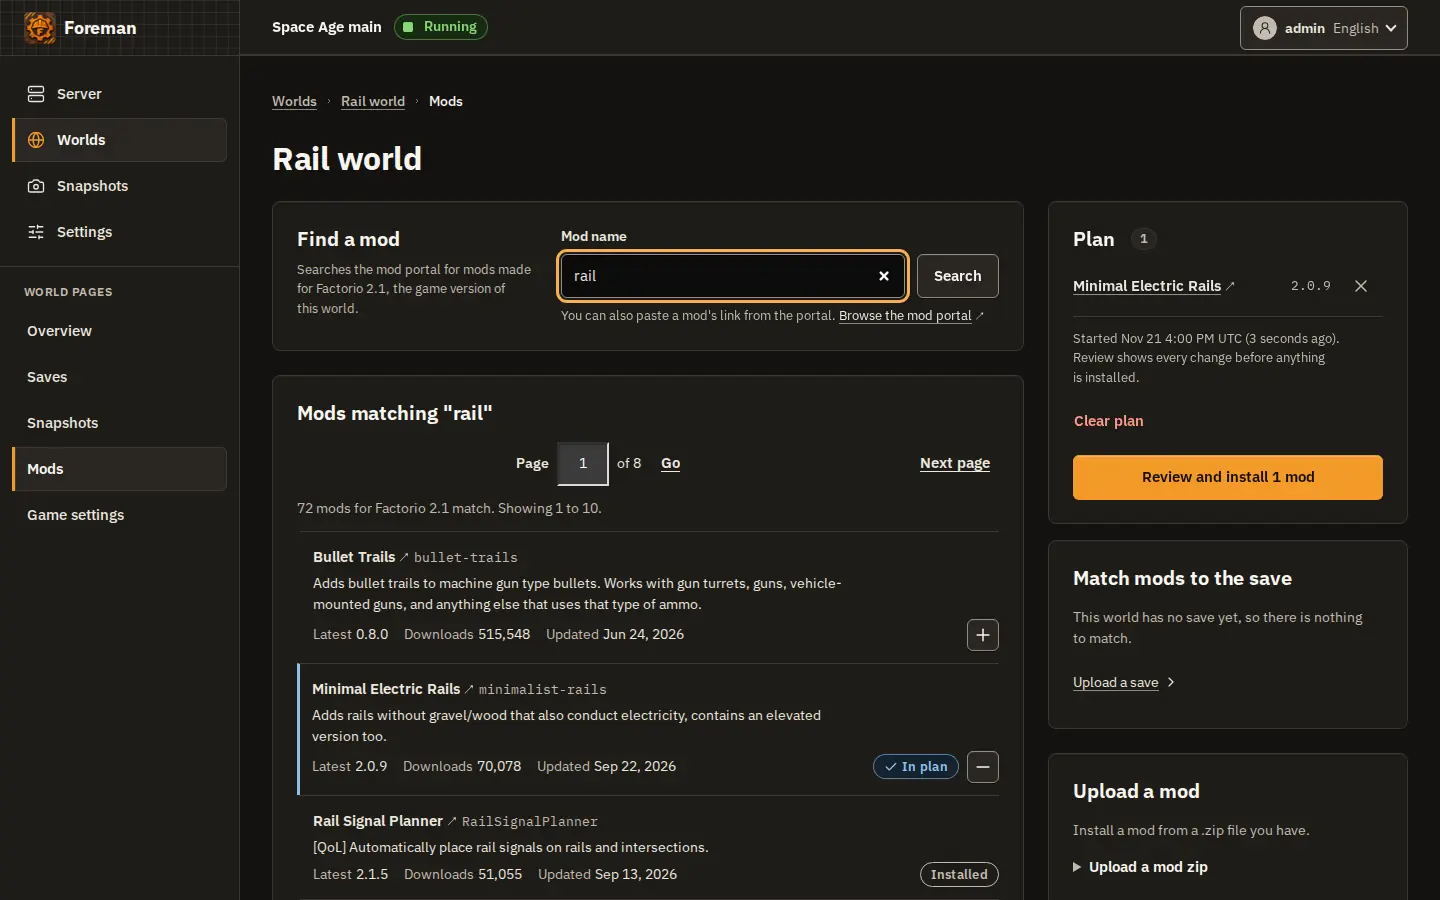
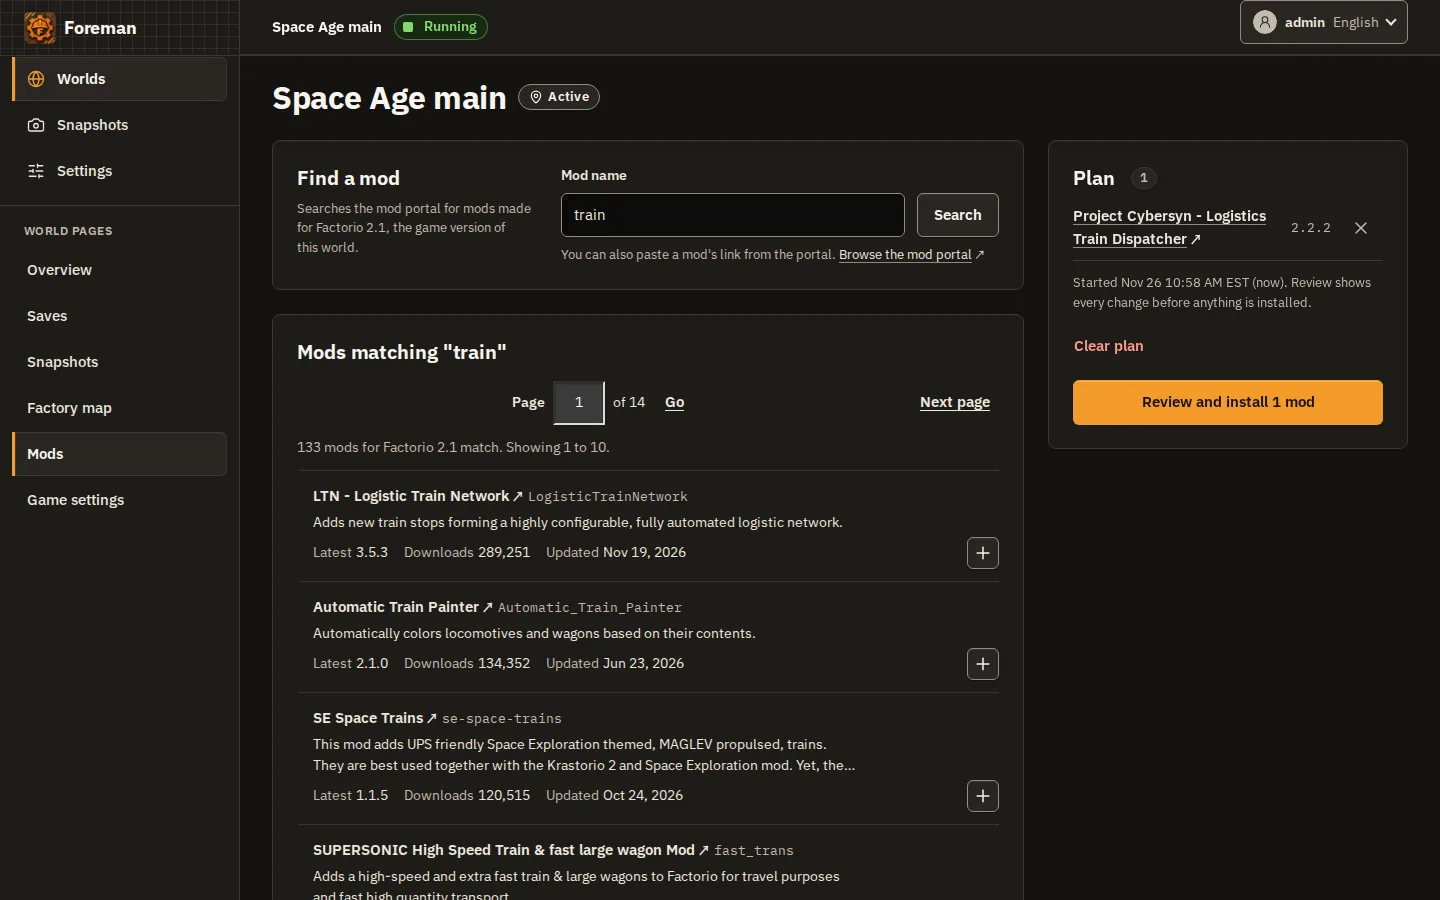
Docs refresh for 1.0.0: README, operator guide, glossary and 27 real screenshots (#967)
* Docs: bring the README, operator guide and I18N guide up to date for 1.0

* Glossary: add rows for world file, factory map, star map, play time, unfinished, tile, spot and REST API

* Docs refresh for 1.0.0: 27 screenshots retaken from a real instance at 1b04b378, wired into README

Retakes all 17 README screenshots and adds 10: Gleba, Fulgora, Aquilo and
three modded planets (Maraxsis, Moshine, Vesta with fluid-tile spots), the
star map, the large view, mod settings and the console. Worlds generated by
the real game, mods installed from the mod portal. Alt text rewritten to
match what each picture shows.

* README: add a short caption under each screenshot

diff --git a/README.md b/README.md
@@ -18,7 +18,9 @@ game or restoring an old save, takes a **snapshot** of the world first. A
 snapshot is a complete copy of the world's folder, so a bad mod update or
 a wrong click is undone in one click, and a save is never lost.
 
-<img src="docs/screenshots/server.webp" width="900" alt="The Server page in dark mode with the world Space Age main running on Factorio 2.1.24: uptime, CPU and memory, the snapshot, restart and stop buttons, players online and recent snapshots.">
+<img src="docs/screenshots/server.webp" width="900" alt="The Server page in dark mode with Space Age main running on Factorio 2.1.24: the join address, uptime, snapshot, restart and stop buttons, CPU, memory and play time.">
+
+*The Server page: the running world, the address players join, and one-click snapshot, restart and stop.*
 
 ## Features
 
@@ -37,28 +39,81 @@ a wrong click is undone in one click, and a save is never lost.
   folder or a save upload, clone a world to try something on a copy, and
   archive the worlds you no longer play. A deleted world can be restored
   from the Deleted worlds page.
+- **Move a world to another Foreman.** Export a world as one world file,
+  with its saves, mods and settings, and import it on another Foreman.
+  The game password, the RCON password and your factorio.com login stay
+  behind.
+- **Players of a save and play time.** A world lists every player who has
+  joined its save, with each one's play time and when Foreman last saw
+  them, and shows how long the map has been played.
 
-<img src="docs/screenshots/worlds.webp" width="900" alt="The Worlds page in dark mode: seven worlds on game versions 2.0.77 to 2.1.24, with Space Age on or off, disk use, and a Switch button on each.">
+<img src="docs/screenshots/worlds.webp" width="900" alt="The Worlds page in dark mode: six worlds on game versions 1.1.110 to 2.1.25, with Space Age on or off, when each was last played, disk use, a Switch button on each, and an unfinished world with a Continue button.">
 
-<img src="docs/screenshots/snapshots.webp" width="900" alt="A world's snapshots: one taken by hand before the first rocket launch and two Foreman took automatically before mod changes.">
+*The Worlds page: each world keeps its own game version, and Switch moves the server to it, with a snapshot of both worlds first.*
 
-<img src="docs/screenshots/version-update.webp" width="900" alt="Updating a world from game version 2.1.23: the confirmation says Foreman takes a Before update snapshot first.">
+<img src="docs/screenshots/snapshots.webp" width="900" alt="A world's snapshots: two taken by hand, before rebuilding the main bus and before the Gleba expedition, and three that Foreman took automatically before world switches and a mod change.">
+
+*A world's snapshots. Foreman took the automatic ones before risky changes; the named ones were taken by hand. Any of them restores in one click.*
+
+<img src="docs/screenshots/version-update.webp" width="900" alt="Updating Friends co-op from game version 2.1.23 to 2.1.25: the confirmation says Foreman downloads the game image and takes a Before update snapshot first.">
+
+*Updating a world's game version. Foreman says what it will download and takes a snapshot first, so the update can be rolled back.*
 
 ### Generating worlds, with a real map preview
 
-Generate a world from a preset or from your own map settings, and see the
-map before you commit to it. The preview is drawn by the real game, not
-an imitation, so what you see is the map you get.
+Generate a world in four short steps: the world, its mods, the mods'
+startup settings, then the map settings. Only the first step is needed,
+and an unfinished world waits on the Worlds page until you continue it.
+Pick a preset or your own map settings, and see the map before you
+commit to it. The preview is drawn by the real game, not an imitation, so
+what you see is the map you get.
 
 - **Resource patches are labelled with their amounts**, such as "1.2M",
   on the map, with the same list as text for keyboard and screen-reader
   users.
+  Each planet gets its own count. Fluids that come from tiles, such as a
+  modded planet's methane, are counted as spots, sized in tiles.
 - **Space Age planets.** On Vulcanus, the preview draws the demolisher
   territories, so you can see where the big worms live before you land.
+- **Planet mods.** When a world's mods add planets, the map settings list
+  them and the preview draws them with the world's own mods loaded. On a
+  2.1 world you can also draw a planet from a throwaway real game, which
+  shows terrain a mod makes by script.
+- **A star map.** With all planets shown, the preview ends with a map of
+  the solar system: the planets, moons and routes, placed as the game
+  places them, including a mod's own planets.
+- **A large view** to zoom and pan any picture, with a download of each.
 
-<img src="docs/screenshots/generate-nauvis.webp" width="900" alt="The Generate page's map preview of Nauvis, drawn by the real game, with each resource patch labelled with its amount, such as 2.2M or 600.5K.">
+<img src="docs/screenshots/generate-nauvis.webp" width="900" alt="The large map preview of Nauvis, drawn by the real game, with each resource patch labelled with its amount, such as 5.2M or 685.1K, beside the planet's resource settings.">
 
-<img src="docs/screenshots/generate-vulcanus.webp" width="900" alt="The map preview of Vulcanus with demolisher territories outlined and marked Small or Medium, eleven small and seven medium, beside the resource amounts.">
+*Generating a world: the real game draws the map, and Foreman labels each resource patch with its amount.*
+
+<img src="docs/screenshots/generate-vulcanus.webp" width="900" alt="The map preview of Vulcanus with demolisher territories outlined and marked Small or Medium, ten small and eleven medium, beside the resource amounts.">
+
+*On Vulcanus, the preview outlines the demolisher territories and marks each one's size.*
+
+<table>
+  <tr>
+    <td><img src="docs/screenshots/generate-gleba.webp" width="440" alt="The map preview of Gleba with resource amounts, beside its stone, cliff, water and plant settings."><br><em>Gleba, with its own resource and terrain settings.</em></td>
+    <td><img src="docs/screenshots/generate-fulgora.webp" width="440" alt="The map preview of Fulgora: scrap patches on its islands labelled with amounts from 1.6K to 38.5M, beside the scrap and island settings."><br><em>Fulgora's scrap patches on its islands.</em></td>
+  </tr>
+  <tr>
+    <td><img src="docs/screenshots/generate-aquilo.webp" width="440" alt="The map preview of Aquilo, with crude oil and lithium brine yields shown as percentages and other patches as amounts."><br><em>Aquilo: fluid wells show their yield as a percentage.</em></td>
+    <td><img src="docs/screenshots/generate-maraxsis.webp" width="440" alt="The map preview of Maraxsis, a planet from a mod, with its coral reef patches labelled with amounts."><br><em>Maraxsis, a planet added by a mod, drawn with the world's mods loaded.</em></td>
+  </tr>
+  <tr>
+    <td><img src="docs/screenshots/generate-moshine.webp" width="440" alt="The map preview of Moshine, a planet from a mod, crowded with labelled patches, with its own default richness of 15000% shown in the settings."><br><em>Moshine, another mod planet, with the mod's own default richness.</em></td>
+    <td><img src="docs/screenshots/generate-vesta.webp" width="440" alt="The map preview of Vesta, a gas planet from a mod, where each spot of gas tiles is labelled with its size in tiles, such as 146 tiles."><br><em>Vesta, a gas planet from a mod: gas spots are sized in tiles.</em></td>
+  </tr>
+</table>
+
+<img src="docs/screenshots/starmap.webp" width="600" alt="The star map of a world with planet mods: the sun, the five Space Age planets, and Maraxsis, Moshine, Muluna, Cerys, Corrundum and Vesta, with the routes between them.">
+
+*The star map at the end of the preview: the Space Age planets plus the ones the world's mods add, with the routes between them.*
+
+<img src="docs/screenshots/large-view.webp" width="900" alt="The large view zoomed in on Cerys, a moon from a mod, with every resource patch labelled with its amount beside the moon's resource settings.">
+
+*The large view zooms and pans any picture, here a moon added by a mod.*
 
 ### Mods
 
@@ -68,6 +123,11 @@ an imitation, so what you see is the map you get.
   need, shows one plan of what it will install, and takes a snapshot
   before it changes anything. Mod settings can be changed on the same
   tab.
+- **Mod text as the game shows it.** Mod descriptions and settings show
+  the game's bold text and colours, and the mod's own icons for the items
+  and fluids they name. Where a mod has no icon, Foreman can show the
+  Factorio wiki's icon instead. That is off until you turn it on in the
+  settings, because each viewer's browser then contacts the wiki.
 - **Favorites.** Save a world's mods, mod settings, map settings and
   server settings as a favorite, then generate new worlds from it with
   the same mod bundle in a few clicks.
@@ -75,27 +135,53 @@ an imitation, so what you see is the map you get.
   download the running world's mods without signing in. Nothing else is
   shown there.
 
-<img src="docs/screenshots/mods.webp" width="900" alt="A world's Mods page: eight mods from the mod portal installed, including Rate Calculator, Factory Planner and Bottleneck Lite, all up to date.">
+<img src="docs/screenshots/mods.webp" width="900" alt="A world's Mods page: eight mods from the mod portal installed, including Rate Calculator, Factory Planner, Bottleneck Lite and Todo List, all up to date.">
 
-<img src="docs/screenshots/mod-search.webp" width="900" alt="Searching the mod portal for rail from a world's Mods page, with the picked mod gathered in a plan beside the results.">
+*A world's Mods tab: what is installed, and whether each mod is up to date.*
 
-<img src="docs/screenshots/favorites.webp" width="900" alt="The Favorites page with two saved setups, Rail planning kit and Space Age QoL pack, the second opened to show its eight mods and map exchange string.">
+<img src="docs/screenshots/mod-search.webp" width="900" alt="Searching the mod portal for train from a world's Mods page, with Project Cybersyn picked into the plan beside the results.">
 
-<img src="docs/screenshots/favorites-apply.webp" width="900" alt="Generating a new world from a favorite: the review lists the mods Foreman will install from the portal.">
+*Searching the mod portal. Picks go into one plan that Foreman reviews, with every dependency, before it installs anything.*
+
+<img src="docs/screenshots/favorites.webp" width="900" alt="The Favorites page with two saved setups, Planet pack and Space Age QoL pack, the second opened to show its eight mods.">
+
+*Favorites save a world's mods and settings so that a new world can start from the same bundle.*
+
+<img src="docs/screenshots/favorites-apply.webp" width="900" alt="Generating a new world from a favorite: the review lists the eight mods Foreman will download from the portal and the snapshot it takes first.">
+
+*Generating a world from a favorite: the review lists the mods Foreman will download and the snapshot it takes first.*
+
+<img src="docs/screenshots/mod-settings.webp" width="900" alt="Editing a world's mod settings: Maraxsis's checkboxes and water opacity, then Muluna's settings, with the mods' coloured text and an inline planet icon.">
+
+*Mod settings, edited in Foreman, with the mods' coloured text and icons as the game shows them.*
+
+### Factory map
+
+A world's Factory map tab draws each surface of its newest save as the
+game's own map, with optional layers that outline belts, production,
+power, rail and other kinds of building. Zoom, pan and download the
+picture. Foreman draws it from a copy of the save, so the game is never
+touched. It draws when you click, or by itself once the world has been
+stopped for a while, if you set it to. It needs Factorio 2.0.61 or newer.
 
 ### Running the server
 
 - **Start, stop and restart** with a countdown that warns players in the
   game's chat. After a crash the game is restarted, and after three
   crashes in ten minutes Foreman stops it and says so.
-- **Live operations**: the player list, kicking and banning players, the
-  game's chat and console, and the game's log as it is written.
+- **Live operations**: the players online and everyone who has played the
+  save, kicking and banning players, the game's chat and console, and the
+  game's log as it is written.
 - **A daily restart schedule** that waits until nobody is online.
 - **Webhooks** to Discord, ntfy, Pushover or any web address, for starts,
   stops, crashes, players joining and leaving, and more.
 - **A low-disk warning** before the game's autosaves are at risk.
 - **An optional VPN sidecar**, so players can join through Tailscale or
   another VPN while LAN players still join the host.
+
+<img src="docs/screenshots/console.webp" width="900" alt="The Console page: the game's live log with a chat message from the server, the command box, and a history of the /version, /time, /evolution and /players commands with the game's replies.">
+
+*The Console tab: the game's live log, a command box, and a history of commands with the game's replies.*
 
 ### AI assistants through MCP
 
@@ -108,7 +194,9 @@ show a preview and need a second, confirming call. Everything a token
 does is in the audit log under its name. The same tokens also work on a
 REST API, so a script can call the same tools with `curl`.
 
-<img src="docs/screenshots/mcp.webp" width="900" alt="The API tokens settings page: MCP access switched on, and a list of tokens with their scopes and expiry dates.">
+<img src="docs/screenshots/mcp.webp" width="900" alt="The API tokens settings page: MCP and REST API access switched on, and three tokens, Claude Code, Discord bot and Home Assistant, with their scopes and expiry dates.">
+
+*API tokens for AI assistants and scripts, each with its own scope and expiry date.*
 
 ### Sign-in, languages and the interface
 
@@ -124,18 +212,26 @@ REST API, so a script can call the same tools with `curl`.
 - **Works on a phone**, down to 320 pixels wide, in light and dark mode.
   Pages are built and tested for keyboard and screen-reader use.
 
-<img src="docs/screenshots/signin.webp" width="600" alt="The sign-in page in light mode, offering single sign-on through OpenID Connect above the username and password form.">
+<img src="docs/screenshots/signin.webp" width="600" alt="The sign-in page in light mode, offering single sign-on above the username and password form.">
+
+*The sign-in page, with single sign-on and a local username and password both turned on.*
 
 <img src="docs/screenshots/i18n.webp" width="900" alt="The Server page in German.">
 
-<img src="docs/screenshots/audit-log.webp" width="900" alt="The audit log: console commands, a token created, MCP turned on, a game version update, a snapshot and a mod change, each with who did it and when.">
+*The Server page in German, one of eight languages.*
+
+<img src="docs/screenshots/audit-log.webp" width="900" alt="The audit log filtered to one world: a snapshot taken by the Claude Code API token, console commands, a chat message, a manual snapshot, a world switch and server starts and stops, each with who did it and when.">
+
+*The audit log: who did what and when, including actions an AI assistant took under its token's name.*
 
 <img src="docs/screenshots/worlds-light.webp" width="900" alt="The Worlds page in light mode.">
 
+*The Worlds page in light mode.*
+
 <table>
   <tr>
-    <td><img src="docs/screenshots/phone.webp" width="260" alt="The Server page on a phone, in light mode."></td>
-    <td><img src="docs/screenshots/phone-dark.webp" width="260" alt="The Server page on a phone, in dark mode."></td>
+    <td><img src="docs/screenshots/phone.webp" width="260" alt="The Server page on a phone, in light mode."><br><em>The Server page on a phone, light mode.</em></td>
+    <td><img src="docs/screenshots/phone-dark.webp" width="260" alt="The Server page on a phone, in dark mode."><br><em>The Server page on a phone, dark mode.</em></td>
   </tr>
 </table>
 

diff --git a/docs/I18N.md b/docs/I18N.md
@@ -93,6 +93,14 @@ the same meaning everywhere, in every sentence, button and heading.
 | renew | Start a token's 30 days again, keeping its secret | verlängern | продлить | 续期 | renouveler | renovar | odnowić | obnovit |
 | revoke | End a token for good | widerrufen | отозвать | 吊销 | révoquer | revocar | unieważnić | odvolat |
 | expire | A token's 30 days run out | ablaufen | истечь | 过期 | expirer | caducar | wygasnąć | vypršet |
+| world file | The file Foreman exports a world to, and imports one from | Weltdatei | файл мира | 世界文件 | fichier de monde | archivo de mundo | plik świata | soubor světa |
+| factory map | A drawn picture of what a world's players built | Fabrikkarte | карта фабрики | 工厂地图 | carte de l’usine | mapa de la fábrica | mapa fabryki | mapa továrny |
+| star map | A picture of a new world's planets and the routes between them | Sternenkarte | звёздная карта | 星图 | carte stellaire | mapa estelar | mapa gwiezdna | hvězdná mapa |
+| play time | How long a player has played, in a save or on the server | Spielzeit | время игры | 游玩时间 | temps de jeu | tiempo de juego | czas gry | herní čas |
+| unfinished (world) | A world whose setup was not completed | unfertig | не завершён | 未完成 | inachevé | sin terminar | niedokończony | nedokončený |
+| tile | One square of the map, as counted in the resource preview | Kachel | клетка | 格 | case | casilla | kafelek | dlaždice |
+| spot | A separate place on a planet where a resource is found, counted in the resource preview | Vorkommen | участок | 处 | nappe | zona | obszar | místo |
+| REST API | Foreman's HTTP interface for programs, with its own on/off switch; keep the English name | REST API | REST API | REST API | REST API | REST API | REST API | REST API |
 
 The glossary lists the base form (the infinitive, or the noun in the
 singular). Inflect it as the sentence needs. Notes:
@@ -222,11 +230,12 @@ These apply to the English source first, and to every translation.
 
 1. Add the key to `internal/i18n/locales/en/<area>.json`. Keys are dotted
    ids such as `server.start.button`, not English sentences. The areas
-   are `common`, `accounts`, `server`, `worlds`, `settings`, `mapgen`, `js`,
-   `players`, `chat`, `crash`, `notify`, `schedule`, `publicmods`, `audit`,
-   `general`, `users`, `saveplayers`, `factorymap`, `worldexport`,
-   `worldimport`, `worldfile` and `newmap`.
-   `newmap` holds step 3 of the guided Generate, a world's map settings
+   are `common`, `about`, `account`, `accounts`, `apitokens`, `server`,
+   `worlds`, `mods`, `favorites`, `settings`, `mapgen`, `js`, `players`,
+   `chat`, `crash`, `notify`, `schedule`, `publicmods`, `audit`, `general`,
+   `users`, `saveplayers`, `factorymap`, `worldexport`, `worldimport`,
+   `worldfile` and `newmap`.
+   `newmap` holds step 4 of the guided Generate, a world's map settings
    before its map is made, and the guided flow's step bar (SPEC 5.6).
    `saveplayers` holds the players of a save on a world's Overview (SPEC
    8.14); the Server page's play time line is in `server`. `factorymap`

diff --git a/docs/OPERATOR.md b/docs/OPERATOR.md
@@ -594,6 +594,12 @@ throwaway map with the world's mods and charts 1024 by 1024 tiles around
 the start. It shows terrain that a mod makes by script, which the fast
 preview cannot. It takes 15 to 40 seconds.
 
+With **All planets** chosen, the preview ends with a **Star map**: the
+planets, moons and routes as the game places them. A world with planet
+mods shows it once the planet list has been read. A Space Age world with
+no other mods shows Space Age's own map, which ships with Foreman. Any
+picture opens in a large view to zoom, pan and download it.
+
 ### Memory for planet previews
 
 Each preview run, and each real-game picture, is a one-off container. Both
@@ -651,6 +657,32 @@ port in the host's firewall, and forward it on your router for players
 outside your network. Foreman's web port (8080) does not need to be open
 to players. With a VPN sidecar the sidecar publishes the port instead
 (section 16).
+
+### Players and play time
+
+A world's **Overview** lists every player who has joined its save, with
+each one's play time and, once Foreman has seen them play, when they were
+last seen. The Server page shows the map's total play time and a link to
+that list. Foreman starts the list by reading a copy of the save (see
+"Memory for reading a large save" in section 11). It does that by itself
+while the world is stopped. While the world runs, choose **Read players
+from the newest save**. After that, Foreman adds each session as players
+join and leave.
+
+### The factory map
+
+A world's **Factory map** tab draws each surface of the newest save, such
+as each planet and space platform, from the game's own map. Tick a layer
+to outline one kind of building, such as belts and inserters, production
+or power. You can zoom, pan and download the picture. It needs Factorio
+2.0.61 or newer.
+
+The tab also sets when Foreman draws it. **Manual**, the default, draws
+only when you choose **Draw factory map**. **Automatic** also draws once
+the world has been stopped for 2 minutes and its save has changed, while
+no game runs on this Foreman. **Off** draws nothing and keeps the last
+picture. A click beside a running game needs memory (section 11), and by
+default it is refused while players are online.
 
 ## 11. Import a world you already have
 
@@ -1400,6 +1432,9 @@ one says "Set here"; nothing in the environment sets or overrides them.
 | Check GitHub for new Foreman versions | on or off | on |
 | Show game icons from the Factorio wiki | on or off | off |
 
+- **Largest mod upload.** This limit also caps a mod downloaded from the
+  mod portal, so a mod that can be uploaded can always be downloaded again.
+  A larger mod fails with a message that names it, its size and the limit.
 - **Check GitHub for new Foreman versions.** About a minute after it
   starts, and then every 6 hours, Foreman asks `api.github.com` for its
   latest release. When that is newer than the running version, About says
